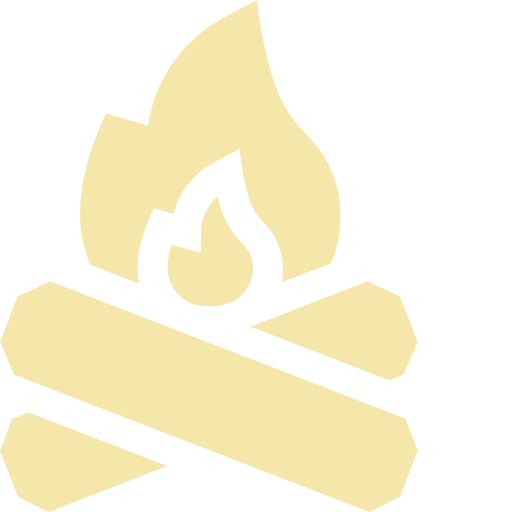
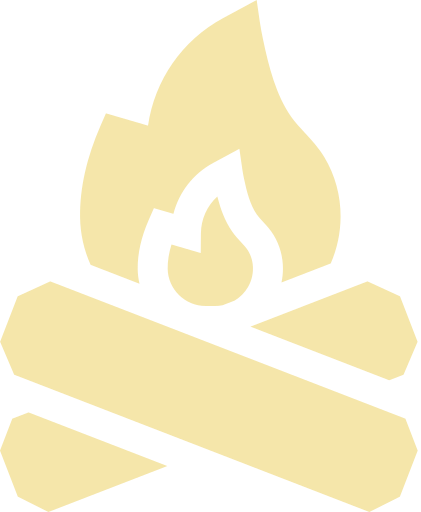
terakhirbanget

diff --git a/index.html b/index.html
@@ -186,7 +186,8 @@
                         <li class="carousel-slide3">
                             <div class="event-card">
                                 <div class="icon-box">
-                                <img src="img\video-camera(1).png" alt="" width="80px" height="80px">
+                                <img class="icon-box-hidden" src="img\video-camera(1).png" alt="" width="80px" height="80px">
+                                <img class="icon-box-hidden2" src="img\video-camera.png" alt="" width="80px" height="80px">
                                 </div>
                                 <h3>Video Album Kenangan</h3>
                             </div>
@@ -195,7 +196,8 @@
                         <li class="carousel-slide3">
                             <div class="event-card">
                                 <div class="icon-box">
-                                    <img src="img\joystick.png" alt="" width="80px" height="80px">
+                                    <img class="icon-box-hidden" src="img\joystick.png" alt="" width="80px" height="80px">
+                                    <img class="icon-box-hidden2" src="img\joystick(1).png" alt="" width="80px" height="80px">
                                 </div>
                                 <h3>Games</h3>
                             </div>
@@ -204,7 +206,8 @@
                         <li class="carousel-slide3">
                             <div class="event-card">
                                 <div class="icon-box">
-                                    <img src="img\cooking.png" alt="" width="80px" height="80px">
+                                    <img class="icon-box-hidden" src="img\cooking.png" alt="" width="80px" height="80px">
+                                    <img class="icon-box-hidden2" src="img\cooking(1).png" alt="" width="80px" height="80px">
                                 </div>
                                 <h3>Masak</h3>
                             </div>
@@ -212,7 +215,8 @@
                         <li class="carousel-slide3">
                             <div class="event-card">
                                 <div class="icon-box">
-                                <img src="img\firewood2.png" alt="" width="80px" height="80px">
+                                <img class="icon-box-hidden" src="img\firewood2.png" alt="" width="80px" height="80px">
+                                <img class="icon-box-hidden2" src="img\firewood(1).png" alt="" width="80px" height="80px">
                                 </div>
                                 <h3> Api Unggun</h3>
                             </div>
@@ -222,7 +226,8 @@
                         <li class="carousel-slide3">
                             <div class="event-card">
                                 <div class="icon-box">
-                                    <img src="img\music(1).png" alt="" width="80px" height="80px">
+                                    <img class="icon-box-hidden" src="img/breakfast(1).png" alt="" width="80px" height="80px">
+                                    <img class="icon-box-hidden2" src="img\breakfast.png" alt="" width="80px" height="80px">
                                 </div>
                                 <h3> Sarapan</h3>
                             </div>
@@ -232,21 +237,21 @@
                         <li class="carousel-slide3">
                             <div class="event-card">
                                 <div class="icon-box">
-                                    <img src="img\microphone(1).png" alt="" width="80px" height="80px">
+                                    <img class="icon-box-hidden" src="img/stretching-exercises(1).png" alt="" width="80px" height="80px">
+                                    <img class="icon-box-hidden2" src="img\stretching-exercises.png" alt="" width="80px" height="80px">
                                 </div>
                                 <h3>Senam</h3>
                             </div>
                         </li>
 
-
-                        
                     </ul>
 
                     <ul class="carousel-track2" id="carouselTrack" aria-hidden="true">
-                           <li class="carousel-slide3">
+                        <li class="carousel-slide3">
                             <div class="event-card">
                                 <div class="icon-box">
-                                <img src="img\video-camera(1).png" alt="" width="80px" height="80px">
+                                <img class="icon-box-hidden" src="img\video-camera(1).png" alt="" width="80px" height="80px">
+                                <img class="icon-box-hidden2" src="img\video-camera.png" alt="" width="80px" height="80px">
                                 </div>
                                 <h3>Video Album Kenangan</h3>
                             </div>
@@ -255,7 +260,8 @@
                         <li class="carousel-slide3">
                             <div class="event-card">
                                 <div class="icon-box">
-                                    <img src="img\joystick.png" alt="" width="80px" height="80px">
+                                    <img class="icon-box-hidden" src="img\joystick.png" alt="" width="80px" height="80px">
+                                    <img class="icon-box-hidden2" src="img\joystick(1).png" alt="" width="80px" height="80px">
                                 </div>
                                 <h3>Games</h3>
                             </div>
@@ -264,7 +270,8 @@
                         <li class="carousel-slide3">
                             <div class="event-card">
                                 <div class="icon-box">
-                                    <img src="img\cooking.png" alt="" width="80px" height="80px">
+                                    <img class="icon-box-hidden" src="img\cooking.png" alt="" width="80px" height="80px">
+                                    <img class="icon-box-hidden2" src="img\cooking(1).png" alt="" width="80px" height="80px">
                                 </div>
                                 <h3>Masak</h3>
                             </div>
@@ -272,7 +279,8 @@
                         <li class="carousel-slide3">
                             <div class="event-card">
                                 <div class="icon-box">
-                                <img src="img\firewood2.png" alt="" width="80px" height="80px">
+                                <img class="icon-box-hidden" src="img\firewood2.png" alt="" width="80px" height="80px">
+                                <img class="icon-box-hidden2" src="img\firewood(1).png" alt="" width="80px" height="80px">
                                 </div>
                                 <h3> Api Unggun</h3>
                             </div>
@@ -282,7 +290,8 @@
                         <li class="carousel-slide3">
                             <div class="event-card">
                                 <div class="icon-box">
-                                    <img src="img\music(1).png" alt="" width="80px" height="80px">
+                                    <img class="icon-box-hidden" src="img/breakfast(1).png" alt="" width="80px" height="80px">
+                                    <img class="icon-box-hidden2" src="img\breakfast.png" alt="" width="80px" height="80px">
                                 </div>
                                 <h3> Sarapan</h3>
                             </div>
@@ -292,7 +301,8 @@
                         <li class="carousel-slide3">
                             <div class="event-card">
                                 <div class="icon-box">
-                                    <img src="img\microphone(1).png" alt="" width="80px" height="80px">
+                                    <img class="icon-box-hidden" src="img/stretching-exercises(1).png" alt="" width="80px" height="80px">
+                                    <img class="icon-box-hidden2" src="img\stretching-exercises.png" alt="" width="80px" height="80px">
                                 </div>
                                 <h3>Senam</h3>
                             </div>
